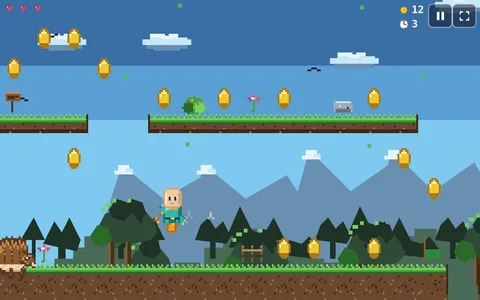
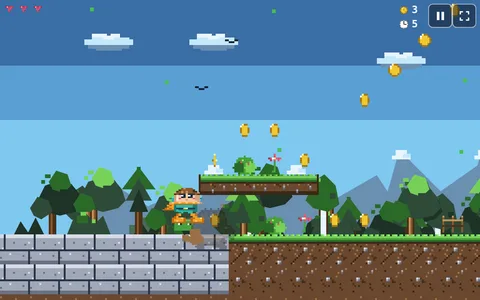
Sprig Peak r4: new hero sprite + art/cache bust (Chumi approved)
Update games/sprig-peak and hub thumb only. Dev C hero redraw; SW cache sprig-peak-r4e.

diff --git a/games/sprig-peak/js/game.js b/games/sprig-peak/js/game.js
@@ -186,9 +186,9 @@ export async function boot(opts) {
     if (p.invuln > HIT_INVULN * 0.7) p.pose = 'hurt';
     else if (!p.grounded) {
       if (p.vy < -40) p.pose = 'jump';
-      else if (p.vy > 60) p.pose = 'fall';
+      else if (p.vy > 60) p.pose = 'fall' + (Math.floor(animT * 10) % 2);
       else if (Math.abs(p.vy) < 40) p.pose = 'apex';
-      else p.pose = p.vy < 0 ? 'jump' : 'fall';
+      else p.pose = p.vy < 0 ? 'jump' : ('fall' + (Math.floor(animT * 10) % 2));
     } else if (landSquash > 0) p.pose = 'land';
     else if (Math.abs(p.vx) > 20) {
       p.frame += Math.abs(p.vx) * dt * 0.14;
@@ -379,11 +379,12 @@ export async function boot(opts) {
   }
 
   function snapCam() {
-    // Instant framing: hero always in view; prefer floor when near ground / low jumps
+    // Instant framing: hero ~25% into view, clear of left touch pad at phone sizes
     const px = player.x + player.w / 2;
     const py = player.y + player.h / 2;
-    const look = player.facing * 36;
-    cam.x = px + look - VIEW_W / 2;
+    const touchL = Math.ceil(140 / Math.max(1, ZOOM));
+    const prefer = Math.max(VIEW_W * 0.25, touchL + 20);
+    cam.x = px - prefer;
     if (player.grounded || player.coyote > 0) {
       cam.y = player.y + player.h - VIEW_H * 0.78;
     } else {
@@ -401,21 +402,26 @@ export async function boot(opts) {
     const py = player.y + player.h / 2;
     // Look-ahead on X (facing + speed)
     const look = player.facing * (28 + Math.min(24, Math.abs(player.vx) * 0.12));
-    // Horizontal deadzone ~ middle 40% (keeps hero in middle ~70% overall)
+    // Horizontal deadzone — keep clear of phone touch pads (CSS ~136 left / ~158 right)
+    const touchL = Math.ceil(140 / Math.max(1, ZOOM));
+    const touchR = Math.ceil(160 / Math.max(1, ZOOM));
     let targetX = cam.x;
     const sx = px - cam.x;
-    const dzL = VIEW_W * 0.30;
-    const dzR = VIEW_W * 0.70;
+    const dzL = Math.max(VIEW_W * 0.30, touchL + 12);
+    const dzR = Math.min(VIEW_W * 0.70, VIEW_W - touchR - 12);
     if (sx < dzL) targetX = px - dzL;
     else if (sx > dzR) targetX = px - dzR;
-    // Blend toward look-ahead center
+    // Blend toward look-ahead center, then re-assert touch-safe margins
     const lookTarget = px + look - VIEW_W / 2;
     targetX = targetX * 0.55 + lookTarget * 0.45;
+    if (px - targetX < dzL) targetX = px - dzL;
+    if (px - targetX > dzR) targetX = px - dzR;
 
-    // Vertical deadzone
+    // Vertical deadzone — stay below top HUD / pause-fs row (~56px CSS)
     let targetY = cam.y;
     const sy = py - cam.y;
-    const dzT = VIEW_H * 0.28;
+    const hudClear = Math.ceil(56 / Math.max(1, ZOOM));
+    const dzT = Math.max(VIEW_H * 0.28, hudClear + player.h);
     const dzB = VIEW_H * 0.72;
     if (sy < dzT) targetY = py - dzT;
     else if (sy > dzB) targetY = py - dzB;
@@ -550,49 +556,120 @@ export async function boot(opts) {
       }
     }
 
-    // NEAR: irregular leaf-mass silhouettes with notches + varied trunk heights
-    const near = Math.floor(cam.x * 0.55);
-    for (let i = -1; i < 10; i++) {
-      const bx = Math.floor(((i * 62 - near) % (VIEW_W + 62) + (VIEW_W + 62)) % (VIEW_W + 62));
-      const ground = VIEW_H - 8;
-      const trunkH = 16 + (i % 5) * 4; // varied heights
-      const trunkX = bx + 12 + (i % 3);
-      // trunk
-      ctx.fillStyle = PALETTE.woodSh || '#4a3018';
-      ctx.fillRect(trunkX, ground - trunkH, 3, trunkH);
-      ctx.fillStyle = PALETTE.wood || '#8a5a30';
-      ctx.fillRect(trunkX, ground - trunkH, 1, trunkH);
-      // irregular canopy polygons with notches (not circles)
-      const top = ground - trunkH - 6;
-      const shapes = [
-        // main mass
-        [[0, 8], [4, 0], [10, -2], [14, 2], [18, -1], [22, 4], [24, 10], [20, 14], [12, 16], [4, 14]],
-        // side notch clump
-        [[-4, 12], [0, 6], [6, 8], [8, 14], [2, 18], [-2, 16]],
-        // upper puff with bite
-        [[6, -2], [10, -8], [16, -6], [18, 0], [14, 4], [8, 2]],
-      ];
-      for (let s = 0; s < shapes.length; s++) {
-        const pts = shapes[s];
-        ctx.fillStyle = s === 0 ? (PALETTE.mtNear || '#2f4a38') : (s === 1 ? (PALETTE.grassSh || '#2a6a28') : (PALETTE.mtNearDk || '#1e3226'));
+    // NEAR: 2 overlapping sub-layers (darker back, brighter front). Snap after factor.
+    // Variety: broadleaf / pine / birch / bush. Trunks with bark shading; 3-tone leaves + rim.
+    function drawNearTree(bx, ground, kind, darker) {
+      const leafLo = darker ? (PALETTE.mtNearDk || '#1e3226') : (PALETTE.mtNear || '#2f4a38');
+      const leafMid = darker ? (PALETTE.mtNear || '#2f4a38') : (PALETTE.grassSh || '#2a6a28');
+      const leafHi = darker ? (PALETTE.grassSh || '#2a6a28') : (PALETTE.grassHi || '#78d058');
+      const barkSh = PALETTE.woodSh || '#4a3018';
+      const bark = darker ? (PALETTE.woodSh || '#4a3018') : (PALETTE.wood || '#8a5a30');
+      const barkHi = darker ? (PALETTE.wood || '#8a5a30') : (PALETTE.woodHi || '#c49058');
+      const trunkH = 14 + (kind % 5) * 4 + (darker ? 4 : 0);
+      const trunkX = bx + 10 + (kind % 3);
+      // bark: 3-tone trunk
+      ctx.fillStyle = barkSh;
+      ctx.fillRect(trunkX, ground - trunkH, 4, trunkH);
+      ctx.fillStyle = bark;
+      ctx.fillRect(trunkX + 1, ground - trunkH, 2, trunkH);
+      ctx.fillStyle = barkHi;
+      ctx.fillRect(trunkX + 1, ground - trunkH, 1, trunkH);
+      // bark notches
+      ctx.fillStyle = barkSh;
+      ctx.fillRect(trunkX, ground - trunkH + 4, 1, 2);
+      ctx.fillRect(trunkX + 3, ground - trunkH + 9, 1, 2);
+      const top = ground - trunkH - 4;
+      const k = kind % 4;
+      if (k === 1) {
+        // pine — stacked triangles
+        for (let tier = 0; tier < 3; tier++) {
+          const tw = 18 - tier * 4;
+          const ty = top + 2 + tier * 6;
+          ctx.fillStyle = tier === 0 ? leafHi : (tier === 1 ? leafMid : leafLo);
+          ctx.beginPath();
+          ctx.moveTo(bx + 12, ty - 8);
+          ctx.lineTo(bx + 12 - tw / 2, ty + 4);
+          ctx.lineTo(bx + 12 + tw / 2, ty + 4);
+          ctx.closePath();
+          ctx.fill();
+        }
+        ctx.fillStyle = leafHi;
+        ctx.fillRect(bx + 11, top - 6, 2, 2);
+      } else if (k === 2) {
+        // birch — pale thin trunk already; oval canopy with notch
+        ctx.fillStyle = PALETTE.cloud || '#e8f4fc';
+        ctx.fillRect(trunkX, ground - trunkH, 3, trunkH);
+        ctx.fillStyle = barkSh;
+        ctx.fillRect(trunkX + 1, ground - trunkH + 3, 1, 2);
+        ctx.fillRect(trunkX + 1, ground - trunkH + 8, 1, 2);
+        ctx.fillStyle = leafMid;
         ctx.beginPath();
-        ctx.moveTo(bx + pts[0][0] + 6, top + pts[0][1]);
-        for (let p = 1; p < pts.length; p++) ctx.lineTo(bx + pts[p][0] + 6, top + pts[p][1]);
-        ctx.closePath();
-        ctx.fill();
-      }
-      // bright rim pixels on top-left of canopy
-      ctx.fillStyle = PALETTE.grassHi || '#78d058';
-      ctx.fillRect(bx + 10, top - 6, 3, 2);
-      ctx.fillRect(bx + 8, top - 3, 2, 2);
-      ctx.fillRect(bx + 14, top - 8, 2, 2);
-      // notch bite — dark void in canopy (not a sky-colored rectangle)
-      ctx.fillStyle = PALETTE.mtNearDk || '#1e3226';
-      if (i % 2 === 0) {
-        ctx.fillRect(bx + 18, top + 2, 4, 3);
-        ctx.fillRect(bx + 16, top + 4, 3, 2);
+        ctx.moveTo(bx + 4, top + 10);
+        ctx.lineTo(bx + 8, top + 0); ctx.lineTo(bx + 14, top - 4);
+        ctx.lineTo(bx + 20, top + 2); ctx.lineTo(bx + 22, top + 12);
+        ctx.lineTo(bx + 16, top + 16); ctx.lineTo(bx + 8, top + 14);
+        ctx.closePath(); ctx.fill();
+        ctx.fillStyle = leafHi;
+        ctx.fillRect(bx + 9, top - 2, 3, 2);
+        ctx.fillStyle = leafLo;
+        ctx.fillRect(bx + 17, top + 6, 3, 3); // notch
+      } else if (k === 3) {
+        // bush — low wide irregular
+        ctx.fillStyle = leafLo;
+        ctx.beginPath();
+        ctx.moveTo(bx + 2, ground - 4);
+        ctx.lineTo(bx + 6, ground - 14); ctx.lineTo(bx + 12, ground - 18);
+        ctx.lineTo(bx + 18, ground - 12); ctx.lineTo(bx + 22, ground - 16);
+        ctx.lineTo(bx + 26, ground - 6); ctx.lineTo(bx + 20, ground - 2);
+        ctx.closePath(); ctx.fill();
+        ctx.fillStyle = leafMid;
+        ctx.fillRect(bx + 8, ground - 16, 6, 4);
+        ctx.fillStyle = leafHi;
+        ctx.fillRect(bx + 10, ground - 18, 3, 2);
+        ctx.fillRect(bx + 16, ground - 14, 2, 2);
+      } else {
+        // broadleaf irregular masses, 3 tones + rim
+        const shapes = [
+          [[0, 8], [4, 0], [10, -2], [14, 2], [18, -1], [22, 4], [24, 10], [20, 14], [12, 16], [4, 14]],
+          [[-4, 12], [0, 6], [6, 8], [8, 14], [2, 18], [-2, 16]],
+          [[6, -2], [10, -8], [16, -6], [18, 0], [14, 4], [8, 2]],
+        ];
+        const cols = [leafLo, leafMid, leafHi];
+        for (let s = 0; s < shapes.length; s++) {
+          const pts = shapes[s];
+          ctx.fillStyle = cols[s];
+          ctx.beginPath();
+          ctx.moveTo(bx + pts[0][0] + 6, top + pts[0][1]);
+          for (let p = 1; p < pts.length; p++) ctx.lineTo(bx + pts[p][0] + 6, top + pts[p][1]);
+          ctx.closePath();
+          ctx.fill();
+        }
+        ctx.fillStyle = leafHi;
+        ctx.fillRect(bx + 10, top - 6, 3, 2);
+        ctx.fillRect(bx + 8, top - 3, 2, 2);
+        ctx.fillStyle = leafLo;
+        if (kind % 2 === 0) {
+          ctx.fillRect(bx + 18, top + 2, 4, 3);
+          ctx.fillRect(bx + 16, top + 4, 3, 2);
+        }
       }
     }
+    // Ground line ≈ where grass sits under play camera (~feet at 0.78 VIEW_H).
+    // Trunks extend into that band so tiles drawn later hide lower trunk.
+    const grassLine = Math.floor(VIEW_H * 0.82);
+    // back row (darker, slower) — denser, full width
+    const nearBack = Math.floor(cam.x * 0.48);
+    for (let i = -2; i < 14; i++) {
+      const bx = Math.floor(((i * 48 - nearBack) % (VIEW_W + 48) + (VIEW_W + 48)) % (VIEW_W + 48));
+      drawNearTree(bx, grassLine + 2, i + 1, true);
+    }
+    // front row (brighter, faster) — snap after its own factor
+    const nearFront = Math.floor(cam.x * 0.62);
+    for (let i = -2; i < 12; i++) {
+      const bx = Math.floor(((i * 42 + 18 - nearFront) % (VIEW_W + 42) + (VIEW_W + 42)) % (VIEW_W + 42));
+      drawNearTree(bx, grassLine, i + 3, false);
+    }
+
 
     // falling leaves (sparse)
     ctx.fillStyle = PALETTE.leaf;
@@ -653,15 +730,18 @@ export async function boot(opts) {
 
     // entities
     const bob = Math.floor(animT * 4) % 2;
-    const coinSpin = Math.floor(animT * 5) % 10;
-    const coinFrame = [0,0,1,2,3,4,4,5,1,3][coinSpin];
+    const coinSpinBase = Math.floor(animT * 5);
+    const coinLut = [0, 0, 1, 2, 3, 4, 4, 5, 1, 3];
     lastDraw.sprites = [];
     for (const e of ents) {
       // cull
       if (e.x < cam.x - 40 || e.x > cam.x + VIEW_W + 40) continue;
       if (e.type === 'coin' && e.alive) {
         const dx = Math.floor(e.x), dy = Math.floor(e.y - bob);
-        lastDraw.sprites.push({ kind: 'coin', x: dx, y: dy });
+        // Stable per-coin phase from world position (avoids all edge-on together)
+        const phase = (Math.floor(e.x) * 7 + Math.floor(e.y) * 13) % 10;
+        const coinFrame = coinLut[(coinSpinBase + phase + 10) % 10];
+        lastDraw.sprites.push({ kind: 'coin', x: dx, y: dy, frame: coinFrame, phase });
         sheets.pickups.draw(ctx, 'coin' + coinFrame, dx, dy);
       } else if (e.type === 'spike') {
         sheets.hazards.draw(ctx, 'spike' + bob, e.x, e.y);
@@ -707,7 +787,7 @@ export async function boot(opts) {
 
     // player
     if (player.invuln > 0 && Math.floor(player.invuln * 20) % 2 === 0) {
-      /* blink */
+      /* blink off */
     } else {
       let sx = 1, sy = 1;
       if (jumpStretch > 0) { sx = 0.85; sy = 1.2; }
@@ -719,10 +799,29 @@ export async function boot(opts) {
       lastDraw.heroY = py;
       lastDraw.sprites.push({ kind: 'hero', x: px, y: py });
       ctx.translate(px, py);
-      // squash/stretch stays float-ish but draw offset integer; no smear on normal run
       ctx.scale(sx * (player.facing < 0 ? -1 : 1), sy);
-      // 28x28 sprite; feet near bottom of frame
-      sheets.player.draw(ctx, player.pose, -14, -26, { flip: false });
+      // Draw hero; optional 1-frame white flash via offscreen tint (not baked)
+      const flash = player.pose === 'hurt' || (player.invuln > HIT_INVULN * 0.85);
+      if (flash) {
+        if (!testHooks._heroTint) {
+          testHooks._heroTint = document.createElement('canvas');
+          testHooks._heroTint.width = 28; testHooks._heroTint.height = 28;
+        }
+        const tc = testHooks._heroTint;
+        const tctx = tc.getContext('2d');
+        tctx.imageSmoothingEnabled = false;
+        tctx.clearRect(0, 0, 28, 28);
+        sheets.player.draw(tctx, player.pose, 0, 0, { flip: false });
+        tctx.globalCompositeOperation = 'source-atop';
+        tctx.fillStyle = '#fff8f0';
+        tctx.globalAlpha = 0.65;
+        tctx.fillRect(0, 0, 28, 28);
+        tctx.globalAlpha = 1;
+        tctx.globalCompositeOperation = 'source-over';
+        ctx.drawImage(tc, -14, -26);
+      } else {
+        sheets.player.draw(ctx, player.pose, -14, -26, { flip: false });
+      }
       ctx.restore();
     }
 
@@ -1052,6 +1151,32 @@ export async function boot(opts) {
         time,
         projectiles: projectiles.length,
       };
+    },
+    viewInfo() { return { VIEW_W, VIEW_H, ZOOM, camX: cam.x, camY: cam.y, spawn: { ...spawnPoint } }; },
+    heroCssRect() {
+      // Sprite 28x28 anchored feet at (px,py); CSS px = view * ZOOM (canvas fills stage)
+      const px = player.x + player.w / 2;
+      const py = player.y + player.h;
+      const left = (px - 14 - cam.x) * ZOOM;
+      const top = (py - 26 - cam.y) * ZOOM;
+      return { x: left, y: top, w: 28 * ZOOM, h: 28 * ZOOM, cx: (px - cam.x) * ZOOM, cy: (py - cam.y) * ZOOM };
+    },
+    forceCheckpoint() {
+      const cp = ents.find((e) => e.type === 'checkpoint');
+      if (!cp) return false;
+      checkpointOn = true;
+      spawnPoint = { x: cp.x, y: cp.y - 8 };
+      return true;
+    },
+    respawnAtSpawn() {
+      player.x = spawnPoint.x;
+      player.y = spawnPoint.y;
+      player.vx = 0; player.vy = 0;
+      player.grounded = true;
+      player.invuln = 0.5;
+      player.pose = 'idle';
+      if (mode === 'dead') mode = 'play';
+      snapCam();
     },
     lastDraw() { return { ...lastDraw, sprites: lastDraw.sprites.slice() }; },
     integerDrawPositions() {

diff --git a/games/sprig-peak/js/level1.js b/games/sprig-peak/js/level1.js
@@ -1,20 +1,20 @@
 /** Forest Grove — hand-authored v1 (teach→test→climb→twist→gauntlet→goal). */
 export const LEVEL1 = { id: 0, name: 'Grove', biome: 'forest', rows: [
-    '........y.....................y........................y........................y...............', // sky
-    '......................................................c*n*r...................2...........*r*...', // high decor+coins
-    '..................................................c.c.======..........c..................=====..', // high plats
-    '.......c...........................2........c........c.................c..c.c............c......', // mid coins/flyer
-    '......c.....c.......y.....................c.......c*u.........2.....c...ccun*r..........c.......', // mid decor
-    '...........c...........cc......................c..====.............c.....======........c........', // mid plats
-    '..........c...........c..c..............c.......cc...........cc...c...c...............c.2.......', // coin arcs
-    '.........c....c......*n....cuc*c.rc......c...cu*c......y....c..c.*u.r.cc.............c**........', // lower decor
-    '........c...........=====..=========......c..=====..........M...=======..............====.......', // lower plats+M
-    '....cc...........c......c..........c.......c...............c....................cc......c.......', // coin drip
-    '...cu*c.........c.c.................c....*S................c...................cn*c......c......', // step decor
-    '.cc====........c...c..................c.====..............c....................====.......c.....', // low steps
-    'Pcfc.u*cc1.|...f.^^Sccu*ccc.c1|cc.c.K..cf.*..cc1ccu*3ccc|c1.....^fScccu*ccc.1cc.|cfc3.c.1.*..E..', // ground
-    'HHHH############...##################.#######.##################...#############################', // solids
-    'HHHH############...##################.#######.##################...#############################', // solids
-    '################...##################.#######.##################...#############################', // solids
+    '..............y.....................y........................y........................y...............', // row0,
+    '............................................................c*n*r...................2...........*r*...', // row1,
+    '........................................................c.c.======..........c..................=====..', // row2,
+    '.............c...........................2........c........c.................c..c.c............c......', // row3,
+    '............c.....c.......y.....................c.......c*u.........2.....c...ccun*r..........c.......', // row4,
+    '.................c...........cc......................c..====.............c.....======........c........', // row5,
+    '................c...........c..c..............c.......cc...........cc...c...c...............c.2.......', // row6,
+    '...............c....c......*n....cuc*c.rc......c...cu*c......y....c..c.*u.r.cc.............c**........', // row7,
+    '..............c...........=====..=========......c..=====..........M...=======..............====.......', // row8,
+    '..........cc...........c......c..........c.......c...............c....................cc......c.......', // row9,
+    '.........cu*c.........c.c.................c....*S................c...................cn*c......c......', // row10,
+    '.......cc====........c...c..................c.====..............c....................====.......c.....', // row11,
+    '......Pcfc.u*cc1.|...f.^^Sccu*ccc.c1|cc.c.K..cf.*..cc1ccu*3ccc|c1.....^fScccu*ccc.1cc.|cfc3.c.1.*..E..', // row12,
+    'HHHHHHHHHH############...##################.#######.##################...#############################', // row13,
+    'HHHHHHHHHH############...##################.#######.##################...#############################', // row14,
+    '######################...##################.#######.##################...#############################', // row15
   ],
 };

diff --git a/games/sprig-peak/art/sprites.js b/games/sprig-peak/art/sprites.js
@@ -6,12 +6,12 @@
 const PLAYER_POSES = [
   'idle0', 'idle1', 'idle2', 'idle3',
   'run0', 'run1', 'run2', 'run3', 'run4', 'run5', 'run6', 'run7',
-  'jump', 'apex', 'fall', 'land', 'hurt',
+  'jump', 'apex', 'fall0', 'fall1', 'land', 'hurt',
 ];
 const ENEMY_FRAMES = ['move0', 'move1', 'move2', 'move3', 'move4', 'move5', 'idle0', 'hit', 'death'];
 const SHEET_PAD = 1;
 
-const CACHE_BUST = 'a2r2';
+const CACHE_BUST = 'r4fix5';
 function loadImage(src) {
   return new Promise((resolve, reject) => {
     const img = new Image();
@@ -46,6 +46,8 @@ function makeSheet(img, frameW, frameH, names, pad = SHEET_PAD) {
         if (name === 'idle') f = map.idle0 || map.idle1;
         else if (/^run\d+$/.test(name) && !map[name]) {
           f = map['run' + (parseInt(name.slice(3), 10) % 8)];
+        } else if (name === 'fall') {
+          f = map.fall0 || map.fall1;
         }
       }
       if (!f) f = map[names[0]];

diff --git a/games/sprig-peak/sw.js b/games/sprig-peak/sw.js
@@ -1,4 +1,4 @@
-const CACHE = 'sprig-peak-v3-public';
+const CACHE = 'sprig-peak-r4e';
 const ASSETS = [
   './',
   './index.html',
